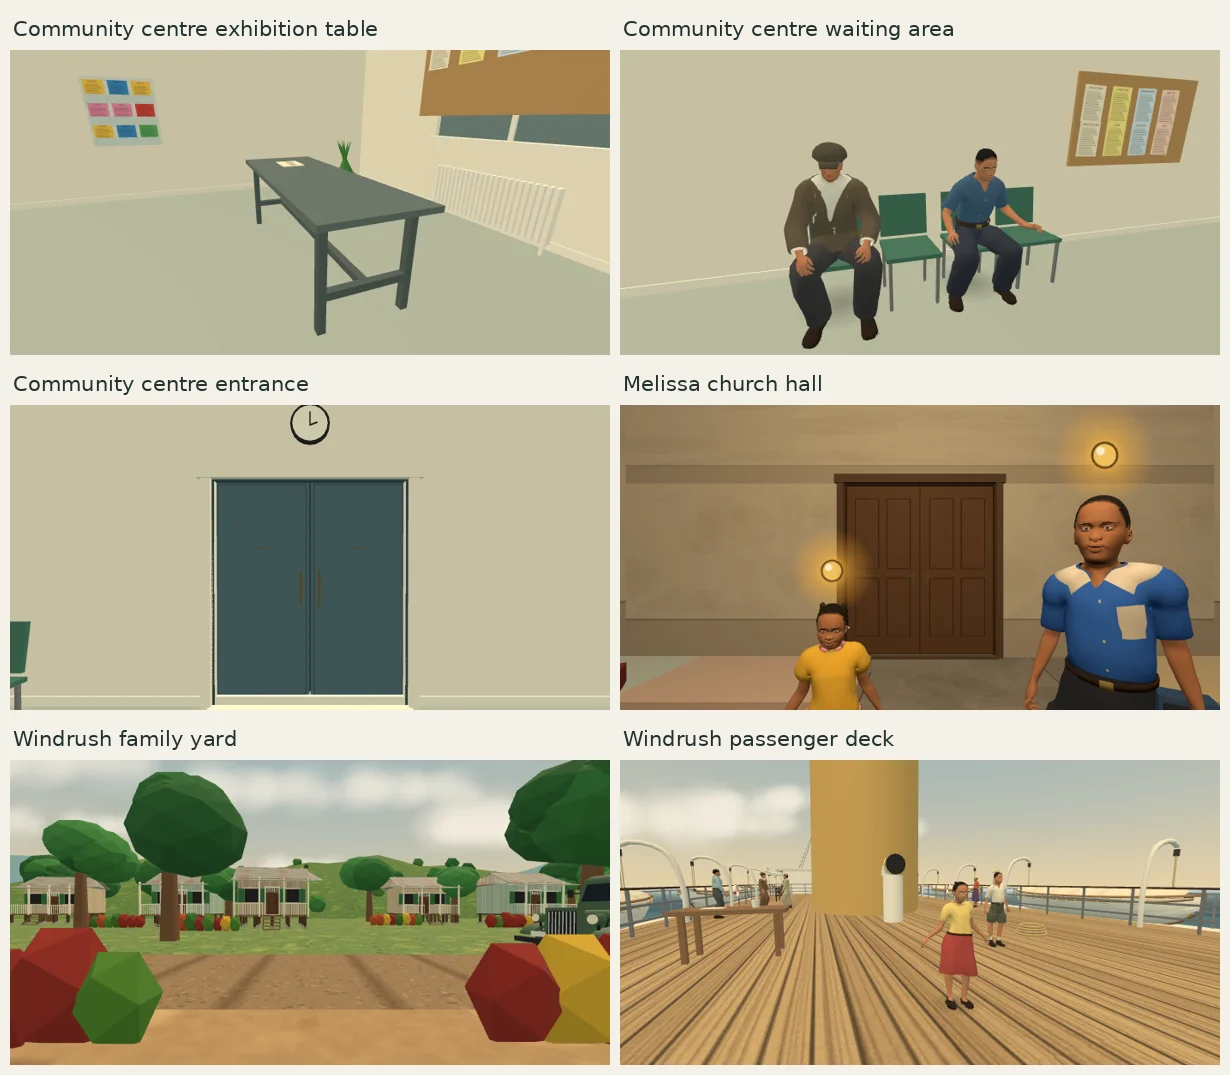
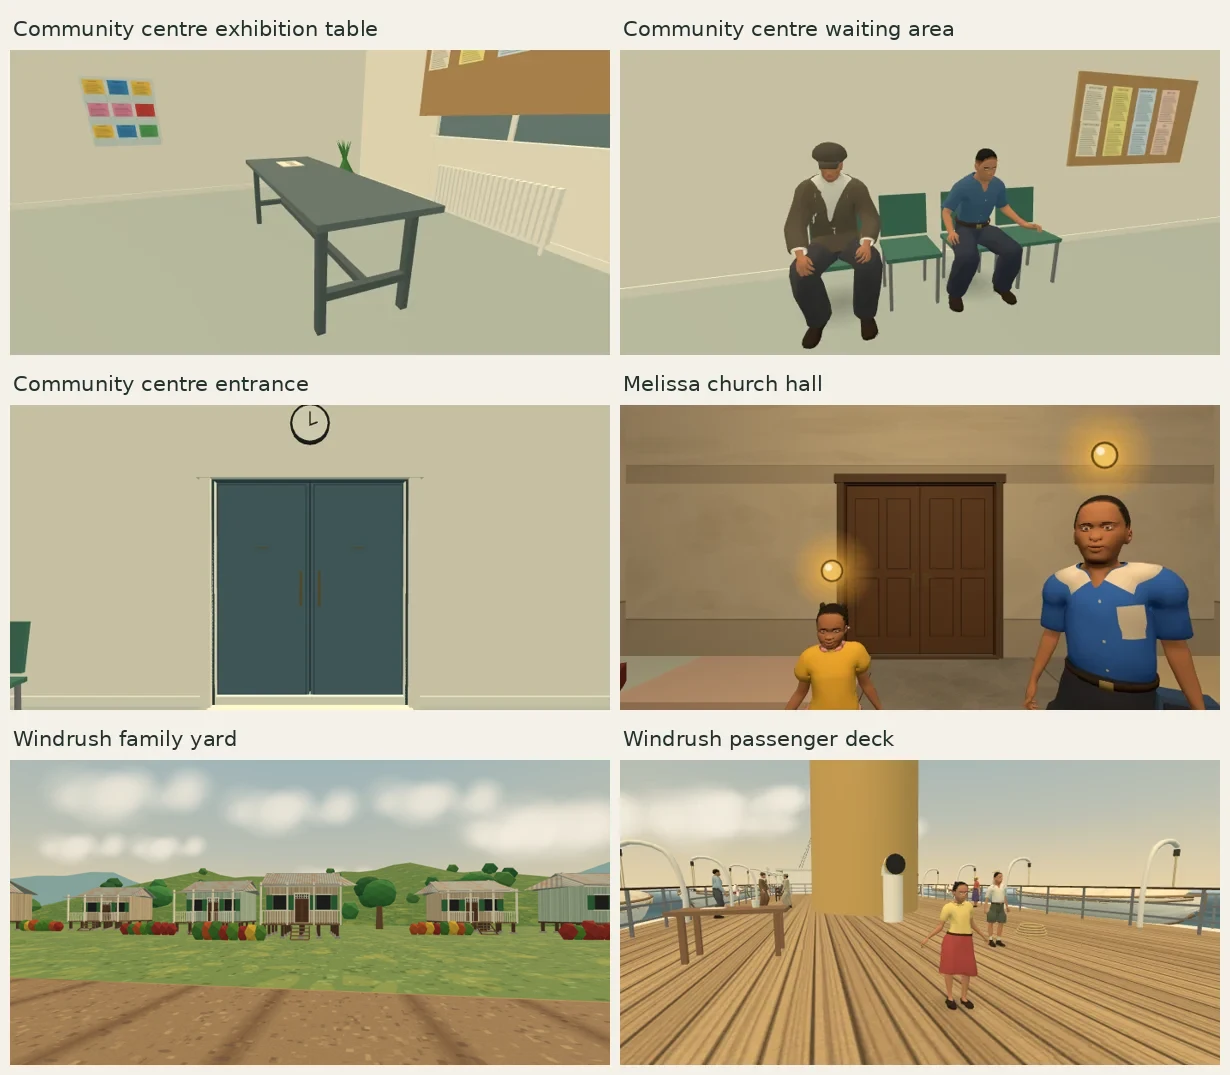
Clear Windrush house roofs and keep Garvey's desk papers uncovered

Changed region(s): [[0.0, 0.706, 0.4943, 1.0]]

diff --git a/games/garvey/src/main.js b/games/garvey/src/main.js
@@ -1227,7 +1227,7 @@ function buildOffice() {
   box(2.3, 0.06, 1.1, wood, -0.5, deskY - .03, -1.5, g);
   const typewriter = new THREE.Group();
   typewriter.name = 'Typewriter';
-  typewriter.position.set(-1.0, deskY, -1.45);
+  typewriter.position.set(-1.12, deskY, -1.45);
   g.add(typewriter);
   box(.34, .12, .32, iron, 0, .06, 0, typewriter);
   box(.30, .03, .12, solid(0x222222), 0, .13, .09, typewriter);
@@ -1239,12 +1239,24 @@ function buildOffice() {
   typewriter.add(sheet);
   box(.22, .24, .004, paper, 0, .12, 0, sheet);
   cyl(0.1, 0.12, 0.05, brass, 0.4, deskY + .025, -1.8, g, 12); cyl(0.02, 0.02, 0.4, brass, 0.4, deskY + .24, -1.8, g, 6); cyl(0.04, 0.16, 0.16, solid(0x2f6a4a, 0.5), 0.4, deskY + .44, -1.8, g, 14);
+  // The telephone sits on bare wood behind the news cards.
+  const telephone = new THREE.Group();
+  telephone.name = 'Telephone';
+  telephone.position.set(-.53, deskY, -1.86);
+  g.add(telephone);
+  cyl(.1, .12, .04, iron, 0, .02, 0, telephone, 12);
+  cyl(.012, .012, .22, iron, 0, .15, 0, telephone, 6);
+  cyl(.035, .035, .03, iron, 0, .275, 0, telephone, 8);
+  box(.1, .012, .018, iron, .05, .20, 0, telephone);
+  box(.05, .1, .05, iron, .1, .15, 0, telephone);
   for (const [x, z, ry] of [[-.69, -1.18, .2], [-.38, -1.36, -.1], [-.12, -1.66, .35], [.22, -1.19, 0]]) {
-    box(.2, .012, .28, paper, x, deskY + .006, z, g).rotation.y = ry;
+    const card = box(.2, .012, .28, paper, x, deskY + .006, z, g);
+    card.name = 'Loose paper';
+    card.rotation.y = ry;
   }
   box(0.5, 0.5, 0.5, woodDark, -0.5, 0.25, -2.3, g); OFF_WALLS.push([-1.7, -2.1, 0.7, -0.85]);
   /* a side table with the letters, and a notice board */
-  box(1.1, 0.745, 0.7, woodDark, 3.2, 0.3725, 0.8, g); box(1.2, 0.05, 0.8, wood, 3.2, 0.77, 0.8, g); for (const [dx, dz] of [[-0.25, 0], [0.1, 0.1], [0.3, -0.1]]) box(0.26, 0.015, 0.18, paper, 3.2 + dx, 0.8025, 0.8 + dz, g); OFF_WALLS.push([2.55, 0.4, 3.85, 1.2]);
+  box(1.1, 0.745, 0.7, woodDark, 3.2, 0.3725, 0.8, g); box(1.2, 0.05, 0.8, wood, 3.2, 0.77, 0.8, g); for (const [dx, dz] of [[-0.38, -0.21], [-0.31, 0.2], [-0.08, -0.03]]) box(0.26, 0.015, 0.18, paper, 3.2 + dx, 0.8025, 0.8 + dz, g).name = 'Loose paper'; OFF_WALLS.push([2.55, 0.4, 3.85, 1.2]);
   box(0.06, 1.2, 1.6, woodDark, OFF.x1 - 0.05, 1.7, -1.4, g); for (const [dz, dy] of [[-0.45, 0.3], [0, 0.3], [0.45, 0.3], [-0.3, -0.25], [0.25, -0.25]]) mesh(new THREE.PlaneGeometry(0.34, 0.26), new THREE.MeshStandardMaterial({ map: sheetTex('NEWS'), roughness: 1 }), OFF.x1 - 0.09, 1.7 + dy, -1.4 + dz, g).rotation.y = -Math.PI / 2;
   cyl(0.008, 0.008, 0.7, solid(0x222222), 0, H2 - 0.5, 0, g, 6); cyl(0.05, 0.14, 0.12, brass, 0, 2.95, 0, g); cyl(0.1, 0.1, 0.24, new THREE.MeshStandardMaterial({ color: 0xfff1c9, emissive: 0xffc46a, emissiveIntensity: 0.8, transparent: true, opacity: 0.75 }), 0, 2.78, 0, g);
   still(g);   /* the still scenery drawn merged (engine/batch.js) */
@@ -1475,9 +1487,8 @@ function dShip(g, x, z, len, ry = 0, kind = 'steamer') { const k = new THREE.Gro
     { const f = new THREE.Group(); f.position.set(3.5, 0, -2.8); g.add(f); box(0.6, 1.3, 0.55, solid(0x4a4f56, 0.6, 0.3), 0, 0.65, 0, f); for (const y of [0.25, 0.65, 1.05]) { box(0.5, 0.3, 0.02, solid(0x585e66, 0.6, 0.3), 0, y, 0.285, f); box(0.14, 0.03, 0.03, brass, 0, y, 0.31, f); } cyl(0.02, 0.02, 0.1, brass, 0, 1.37, 0, f, 6); mesh(new THREE.SphereGeometry(0.15, 16, 12), solid(0x4a6fa0, 0.5), 0, 1.55, 0, f); mesh(new THREE.TorusGeometry(0.17, 0.012, 6, 24), brass, 0, 1.55, 0, f).rotation.x = Math.PI / 2 - 0.4; OFF_WALLS.push([3.15, -3.15, 3.9, -2.5]); }   /* a filing cabinet with a globe on it */
     { const h = new THREE.Group(); h.position.set(-3.0, 0, 2.8); g.add(h); cyl(0.03, 0.03, 1.7, woodDark, 0, 0.85, 0, h, 8); cyl(0.2, 0.22, 0.05, woodDark, 0, 0.03, 0, h, 12); for (let i = 0; i < 4; i++) { const a = box(0.22, 0.03, 0.03, woodDark, Math.cos(i * 1.57) * 0.1, 1.68, Math.sin(i * 1.57) * 0.1, h); a.rotation.y = -i * 1.57; } h.children[0].userData.peg = true; { const b1 = cyl(0.11, 0.11, 0.012, solid(0x2c2a2a, 0.9), 0, 1.706, 0, h, 14), c1 = cyl(0.07, 0.08, 0.08, solid(0x2c2a2a, 0.9), 0, 1.752, 0, h, 12); b1.userData.hung = 'hat'; }   /* the hat sits on the top of the pole (it floated 4 cm above it) */ OFF_WALLS.push([-3.3, 2.5, -2.7, 3.1]); }   /* a hat stand */
     dClock(g, 0, 2.7, OFF.z0 + 0.03, 0); dPlant(g, -3.2, -2.9, 1.2); OFF_WALLS.push([-3.5, -3.2, -2.9, -2.6]);
-    cyl(0.1, 0.12, 0.04, iron, -0.15, 0.86, -1.65, g, 12); cyl(0.012, 0.012, 0.22, iron, -0.15, 0.97, -1.65, g, 6); cyl(0.035, 0.035, 0.03, iron, -0.15, 1.1, -1.65, g, 8); box(0.05, 0.1, 0.05, iron, -0.05, 0.99, -1.65, g);   /* a telephone */
     cyl(0.14, 0.11, 0.3, TIN, -1.7, 0.15, -2.3, g, 12); dWallLamp(g, OFF.x0 + 0.02, 2.4, 2.3, Math.PI / 2);
-    { const k = new THREE.Group(); k.position.set(3.5, 0.795, 1.0); k.rotation.y = -0.6; g.add(k); box(0.32, 0.13, 0.32, woodDark, 0, 0.065, 0, k); cyl(0.13, 0.13, 0.012, solid(0x1a1a1a, 0.4), 0, 0.136, 0, k, 20); cyl(0.012, 0.012, 0.22, brass, 0.12, 0.25, -0.12, k, 6);
+    { const k = new THREE.Group(); k.name = 'Gramophone'; k.position.set(3.54, 0.795, 0.84); k.rotation.y = -0.6; g.add(k); box(0.32, 0.13, 0.32, woodDark, 0, 0.065, 0, k); cyl(0.13, 0.13, 0.012, solid(0x1a1a1a, 0.4), 0, 0.136, 0, k, 20); cyl(0.012, 0.012, 0.22, brass, 0.12, 0.25, -0.12, k, 6);
       const horn = mesh(new THREE.ConeGeometry(0.16, 0.3, 16, 1, true), brass, 0.12, 0.42, -0.06, k); horn.rotation.x = -Math.PI / 2 + 0.5; }   /* the gramophone that plays his 1921 record (chapter 7) */
   }; }
 { const b = buildPark; buildPark = () => { const first = !parkBuilt; b(); if (!first) return; const g = parkG;

diff --git a/games/windrush/src/places.js b/games/windrush/src/places.js
@@ -143,17 +143,20 @@ function yard(id) {
   for (let i = 0; i < 7; i++) {
     const h = S.stiltHouse(5, 3.6, { wall: [[190, 170, 140], [170, 190, 170], [200, 180, 150]][i % 3], seed: 300 + i });
     const x = (i - 3) * 11 + (i % 2) * 3, z = 33 + (i % 3) * 3;
-    add(Q, h, x, z, 0, Math.PI + (i % 2) * 0.12);
-    add(Q, tree(5 + i % 3, 130 + i), x + 4.3, z + 2.5);
+    add(Q, h, x, z, 0, Math.PI + (i % 2) * 0.12).name = "yard building";
     add(Q, S.crotonHedge(4.4, i + 15), x + 1.4, z - 4.7);
   }
-  for (const [x, z] of [[-11, 22], [6, 23], [15, 29], [-31, 43], [27, 45]]) add(Q, tree(6.8, 180 + x), x, z);
+  // Plant in the wider gaps and along the back of the plots, clear of neighbouring eaves.
+  for (const [x, z, height] of [
+    [-42, 33, 6.8], [-26, 35, 5.5], [-4, 42, 5.5], [18, 44, 5.7], [43, 34, 6.8],
+    [-34, 48, 6.4], [-17, 49, 6.8], [8, 48, 6.2], [30, 49, 6.6],
+  ]) add(Q, tree(height, 180 + x), x, z).name = "yard tree";
   // the house on its posts, the outdoor kitchen, the drum of water
   const house = S.stiltHouse(7, 4.5, is48 ? { wall: [190, 172, 138], trim: 0xd8d0bc, shut: 0x3f6a4a, roof: [140, 132, 120] } : { wall: [226, 178, 164], trim: 0xf2eee4, shut: 0x2f5a7a, roof: [176, 180, 176] });
-  add(Q, house, -7.5, -6.6);
+  add(Q, house, -7.5, -6.6).name = "yard building";
   wall(Q, -7.5, -5.85, 7.4, 6.3);
   wall(Q, -7.5, -2.3, 1.3, 0.9);
-  solid1(Q, S.kitchenShed(3, 2.2), 8.8, -6.5, 3.6, 2.8, -Math.PI / 2);
+  solid1(Q, S.kitchenShed(3, 2.2), 8.8, -6.5, 3.6, 2.8, -Math.PI / 2).name = "yard building";
   solid1(Q, S.oilDrum(is48 ? 0x5a6e7a : 0x4a6a5a), 10.9, -3.6, 0.7, 0.7);
   // the wash bench and the clothes line
   solid1(Q, S.washBench(), 3.6, 2, 1.5, 0.6);
@@ -169,10 +172,10 @@ function yard(id) {
   if (is48) add(Q, marketBasket(), 7.5, 3.5, 0.835);
   else add(Q, P.radio(), 7.5, 3.5, 0.835);
   // trees and plants: breadfruit, ackee, a coconut palm, bananas; a hedge of crotons along the road with a gap for the path
-  solid1(Q, S.breadfruit(is48 ? 8 : 9, 3), -12.3, 4.5, 1.0, 1.0);
-  solid1(Q, S.ackee(is48 ? 6 : 6.8, 5), 12.6, 1.2, 0.8, 0.8);
-  solid1(Q, palm(8.5, 33), 3.5, -9.3, 0.6, 0.6);
-  for (const [x, z, s] of [[12.8, -9.4, 1], [13.8, -8.4, 2], [-13.8, -9.5, 3]]) solid1(Q, banana(s, s === 2), x, z, 0.8, 0.8);
+  solid1(Q, S.breadfruit(is48 ? 8 : 9, 3), -12.3, 4.5, 1.0, 1.0).name = "yard tree";
+  solid1(Q, S.ackee(is48 ? 6 : 6.8, 5), 12.6, 1.2, 0.8, 0.8).name = "yard tree";
+  solid1(Q, palm(8.5, 33), 3.5, -9.3, 0.6, 0.6).name = "yard tree";
+  for (const [x, z, s] of [[0.8, -8.8, 1], [13.8, -8.4, 2], [-14.2, 1.5, 3]]) solid1(Q, banana(s, s === 2), x, z, 0.8, 0.8).name = "yard tree";
   add(Q, S.crotonHedge(13.4, 2), -15, 14.3);
   wall(Q, -8.3, 14.3, 13.4, 0.7);
   add(Q, S.crotonHedge(5.4, 7), 1.6, 14.3);
@@ -181,7 +184,7 @@ function yard(id) {
   wall(Q, -1.9, -2.3, 3.2, 0.6);
   solid1(Q, standpipe(), 2.6, 13.4, 0.7, 0.7);
   // the district shop and its piazza, where two men play dominoes
-  add(Q, S.districtShop("DISTRICT SHOP", is48 ? {} : { wall: [236, 214, 160], roof: [170, 172, 168] }), 10.2, 8.5);
+  add(Q, S.districtShop("DISTRICT SHOP", is48 ? {} : { wall: [236, 214, 160], roof: [170, 172, 168] }), 10.2, 8.5).name = "yard building";
   wall(Q, 10.2, 8.5, 6.2, 4.2);
   for (const x of [7.3, 10.2, 13.1]) wall(Q, x, 12.95, 0.4, 0.4);
   solid1(Q, S.dominoTable(), 9.0, 11.6, 0.85, 0.85);
@@ -219,11 +222,11 @@ function yard(id) {
   crowd(Q, "wr_kgirl48", -2, 12, 0, { kind: "play", area: [-7.5, 7.5, 0.5, 12.5], run: "Run", joy: ["Cheer", "Clap"] }, { kid: true });
   Q.ambient[Q.ambient.length - 1].behaviour.chase = Q.ambient[Q.ambient.length - 2].id;
   Q.keepOff = [{ at: [-4, 5], r: 1.2 }, { at: [3, 4], r: 1 }, { at: [7, 5], r: 1 }, { at: [0, -3], r: 1 }, { at: [-6, -2], r: 1 }];
-  if (__DEV__) Q.foundationIssues = checkFootings(Q.group);
+  if (__DEV__) Q.yardIssues = checkYard(Q.group);
   return Q;
 }
-// Check each foundation stone against the finished landscape before its meshes are merged.
-function checkFootings(group) {
+// Check the planted trees and the house foundations before static scenery is merged.
+function checkYard(group) {
   group.updateMatrixWorld(true);
   const land = group.getObjectsByProperty("name", "terrain");
   const issues = [], ray = new THREE.Raycaster(), p = new THREE.Vector3();
@@ -234,6 +237,18 @@ function checkFootings(group) {
     ray.ray.origin.set(p.x, 40, p.z);
     const ground = ray.intersectObjects(land, false)[0];
     if (!ground || Math.abs(ground.point.y - p.y) > 0.03) issues.push("House footing off terrain at " + [p.x.toFixed(1), p.z.toFixed(1)]);
+  }
+  const buildings = group.getObjectsByProperty("name", "yard building").map(building => ({
+    position: building.position,
+    bounds: new THREE.Box3().setFromObject(building, true).expandByScalar(0.2),
+  }));
+  for (const tree of group.getObjectsByProperty("name", "yard tree")) {
+    const bounds = new THREE.Box3().setFromObject(tree, true);
+    for (const building of buildings) {
+      if (bounds.intersectsBox(building.bounds)) issues.push(
+        `Tree at ${tree.position.x},${tree.position.z} too close to building at ${building.position.x},${building.position.z}`,
+      );
+    }
   }
   return issues;
 }

diff --git a/games/garvey/src/dev.js b/games/garvey/src/dev.js
@@ -176,6 +176,14 @@ export function devRun(A) {
            suits is one man (who) */
         const twins = faceCheck([...Q.people, ...(Q.extras || [])].filter((n) => n.m && n.m.visible).map((n) => ({ id: n.id, face: n.model, m: n.m, x: n.x, z: n.z, who: /^garvey/.test(n.id) ? 'garvey' : n.who2, life: n.amb && n.amb.spec, path: n.path, story: !n.bg })));
         const all = [...r.floating, ...r.inside, ...r.stuck, ...twins];
+        if (id === 'office') {
+          const papers = Q.group.getObjectsByProperty('name', 'Loose paper').map(p => new THREE.Box3().setFromObject(p, true));
+          for (const name of ['Telephone', 'Typewriter', 'Gramophone']) {
+            const prop = new THREE.Box3().setFromObject(Q.group.getObjectByName(name), true);
+            if (papers.some(p => p.max.x >= prop.min.x && p.min.x <= prop.max.x && p.max.z >= prop.min.z && p.min.z <= prop.max.z))
+              all.push(name + ' covers a loose paper');
+          }
+        }
         if (q.get('dbg')) { const [dx, dy, dz] = q.get('dbg').split(',').map(Number), pt = new THREE.Vector3(dx, dy, dz); Q.group.traverse((o) => { if (o.isMesh && new THREE.Box3().setFromObject(o).expandByScalar(0.02).containsPoint(pt)) { let t = o; while (t.parent && t.parent !== Q.group) t = t.parent; all.push('dbg: ' + o.geometry.type + ' ' + JSON.stringify(o.geometry.parameters || {}) + ' top ' + (t === o ? 'self' : t.type) + ' at ' + o.getWorldPosition(new THREE.Vector3()).toArray().map((v) => v.toFixed(2))); } }); } count += all.length; out.push(id + ': ' + all.length + ' issues'); for (const l of all) out.push('  ' + l); await wait(0); }
       out.unshift('AUDIT ' + count); emit(out, 'AUDIT ' + count); })();
   }

diff --git a/games/windrush/src/dev.js b/games/windrush/src/dev.js
@@ -407,7 +407,7 @@ export async function dev(A) {
       const twins = faceCheck(
         [...Q.people, ...Q.extras].filter((n) => n.m).map((n) => ({ id: n.id, face: n.bodyId || n.base, m: n.m, hidden: true, x: n.x, z: n.z, life: n.amb && n.amb.spec, who: n.who, story: Q.people.includes(n) })),
       );
-      const errors = [...r.floating, ...r.inside, ...r.stuck, ...(Q.foundationIssues || [])];
+      const errors = [...r.floating, ...r.inside, ...r.stuck, ...(Q.yardIssues || [])];
       results.push("AUDIT " + Q.id + " " + errors.length, ...errors, "FACES " + Q.id + " " + twins.length, ...twins.slice(0, 40));
     }
   if (test === "ambient")

diff --git a/docs/TODO.md b/docs/TODO.md
@@ -61,6 +61,8 @@ Build a game with test views first: `node tools/build.mjs <game> --dev`, then se
 [In-game screenshots](games/windrush-scene-review.webp)
 
 - [x] Set the houses in both Jamaican yards on their foundations and fill the empty views beyond the yards, docks and Brixton streets.
+- [x] Move the yard trees clear of the houses in 1948 and 1962. The yard audit checks the full crown and the building exterior, including the roof and veranda.
+- [x] Keep the telephone and typewriter clear of the news cards in Garvey’s Harlem office. The gramophone also has clear space beside the letters on the side table. [Office desk screenshot](games/garvey-office-desk.webp)
 - [x] Fit railings around the Windrush passenger deck and keep the ship, passengers and furniture on the same floor. The deck check passed with both ordinary and reduced motion.
 - [x] Leave an empty chair between the two visitors at the advice centre. Preserve the eye and brow geometry when building Windrush's lighter character models.
 - [x] Square the legs of the community centre's exhibition table and the Tilbury registration table. Rest their papers on the tabletop.
